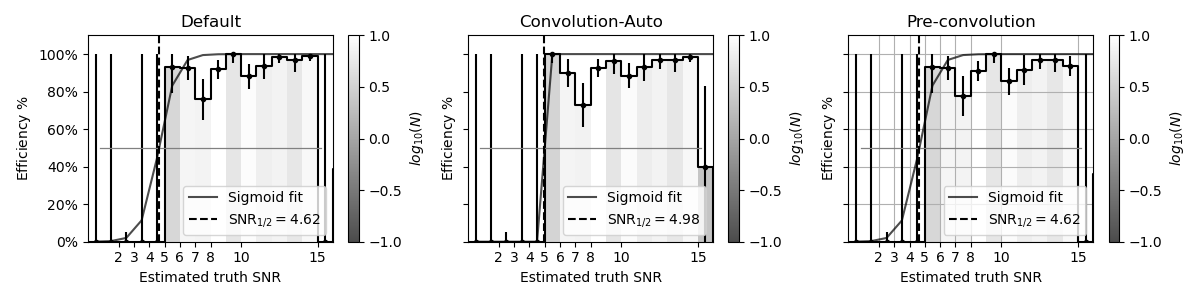
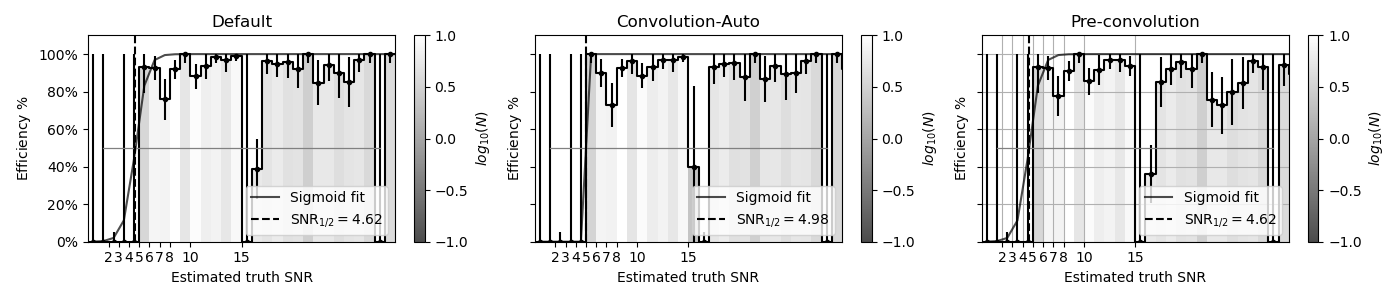
Added photometry assesment

diff --git a/index.rst b/index.rst
@@ -52,24 +52,24 @@ Our main task is clear: to compare the diffrent flavors or DIA implementations, 
 In the analysis we have included a standard analysis part inspired by notebooks in the repos of ap-pipe notebooks.
 We have also included a few analysis bits not present in dm notebooks, and were obtained in a more exploratory work stage.
 
-Topics and Contents
--------------------
+.. Topics and Contents
+.. -------------------
 
-Itemized list of analysis steps include:
+.. Itemized list of analysis steps include:
 
+..  -
+..  - Overall description of the image results
+..  - Filtered sources with flags.
+..  - Visualization of images and display of visible features.
+..    - G and R filters with injections and detections
+..  - Example stamps -- zooniverse tool
+..  - Estimation of Efficiency vs SNR and magnitude
+..  - Estimation of contamination
+..  - Estimation of the photometric properties of candidates
+..  - Estimation of the crossmatched object properties like n_srcs and coord rms
+..  - Duplicating the analisis items listed above with focus on the flags
 
- - Overall description of the image results
- - Filtered sources with flags.
- - Visualization of images and display of visible features.
-   - G and R filters with injections and detections
- - Example stamps -- zooniverse tool
- - Estimation of Efficiency vs SNR and magnitude
- - Estimation of contamination
- - Estimation of the photometric properties of candidates
- - Estimation of the crossmatched object properties like n_srcs and coord rms
- - Duplicating the analisis items listed above with focus on the flags
-
-.. TODO change this list at the end of esditing
+.. .. TODO change this list at the end of esditing
 
 
 `ip_diffim` Difference Image Analysis Algorithms
@@ -526,6 +526,40 @@ Efficiency estimation
 ---------------------
 
 We calculate the efficiency of detecting the fake injected sources as a function of the Model and estimated SNR values.
+
+Our fitting procedure is using the binomial distribution model for the detection of a fake transient, this results in a sigmoid function model :math:`\rm{eff}(x) = [1 + e^{-a (x - b)}]`, and our error estimation is according to the variance of this distribution.
+
+.. figure:: /_static/figures/eff_estimation_diffim_flavors.png
+    :name: fig-eff-estimation-diffim-flavors
+    :target: ../_images/eff_estimation_diffim_flavors.png
+
+    The efficiency of the pipelines for finding fake transient sources, for the different DIA flavors. The SNR used is the `Model SNR`.
+
+.. figure:: /_static/figures/eff_estimation_diffim_flavors_estsnr.png
+    :name: fig-eff-estimation-diffim-flavors-estsnr
+    :target: ../_images/eff_estimation_diffim_flavors_estsnr.png
+
+    The efficiency of the pipelines for finding fake transient sources, for the different DIA flavors. The SNR used is the `estimated SNR`.
+
+We observe that for each of the SNR estimations the efficiency measurement lacks signal in the bins with low-SNR (from 0 to 5), where apparently we have not enough sources to obtain a real efficiency profile function.
+
+We define the SNR at 50% efficiency :math:`SNR_{1/2}`, and from our modelling we obtain that it is oscillating just below :math:`SNR_{1/2} = 5`. We might be observing in this case the SNR detection threshold that is configured by default in the pipelines.
+
+Our results point also that the efficiency is good at :math:`SNR>5`, but it is not reaching a stable value, and it oscilates dropping up to an 80%. This should instead be approaching to a 100% upper bound.
+
+
+
+Assesment of the photometric performance
+========================================
+
+We try to understand the resuls of photometric measurements using the fake injections.
+For this we make use of the injection magnitude and the recovered or measured magnitude value their difference :math:`\Delta m = \rm{mag} - \rm{mag_{true}}` and the flux pull values :math:`(\rm{flux} - \rm{flux_{true}})/\sigma_{\rm{flux}}`.
+
+.. figure:: /_static/figures/mag_offset_vs_SNR_diffim_flavors.png
+    :name: fig-mag-offset-vs-SNR-diffim-flavors
+    :target: ../_images/mag_offset_vs_SNR_diffim_flavors.png
+
+
 
 
 
